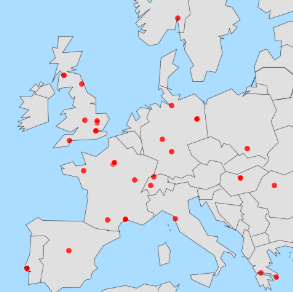
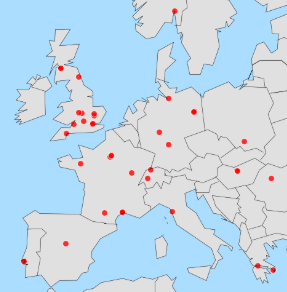
updating participants map

Changed region(s): [[0.0557, 0.0, 1.0, 1.0], [0.5296, 0.4315, 0.6132, 0.524], [0.223, 0.8014, 0.2509, 0.8938]]

diff --git a/_news/announcement_4.md b/_news/announcement_4.md
@@ -1,11 +1,11 @@
 ---
 layout: post
-date: 2025-03-01 15:59:00-0400
+date: 2025-03-09 15:59:00-0400
 inline: true
 related_posts: false
 ---
 
-Up to date map of the registered attendees on March 1<sup>st</sup>
+Up to date map of the registered attendees on March 9<sup>th</sup>
 
 
 ![alt text](../assets/img/JEDImeeting2025/participants_map.png)
